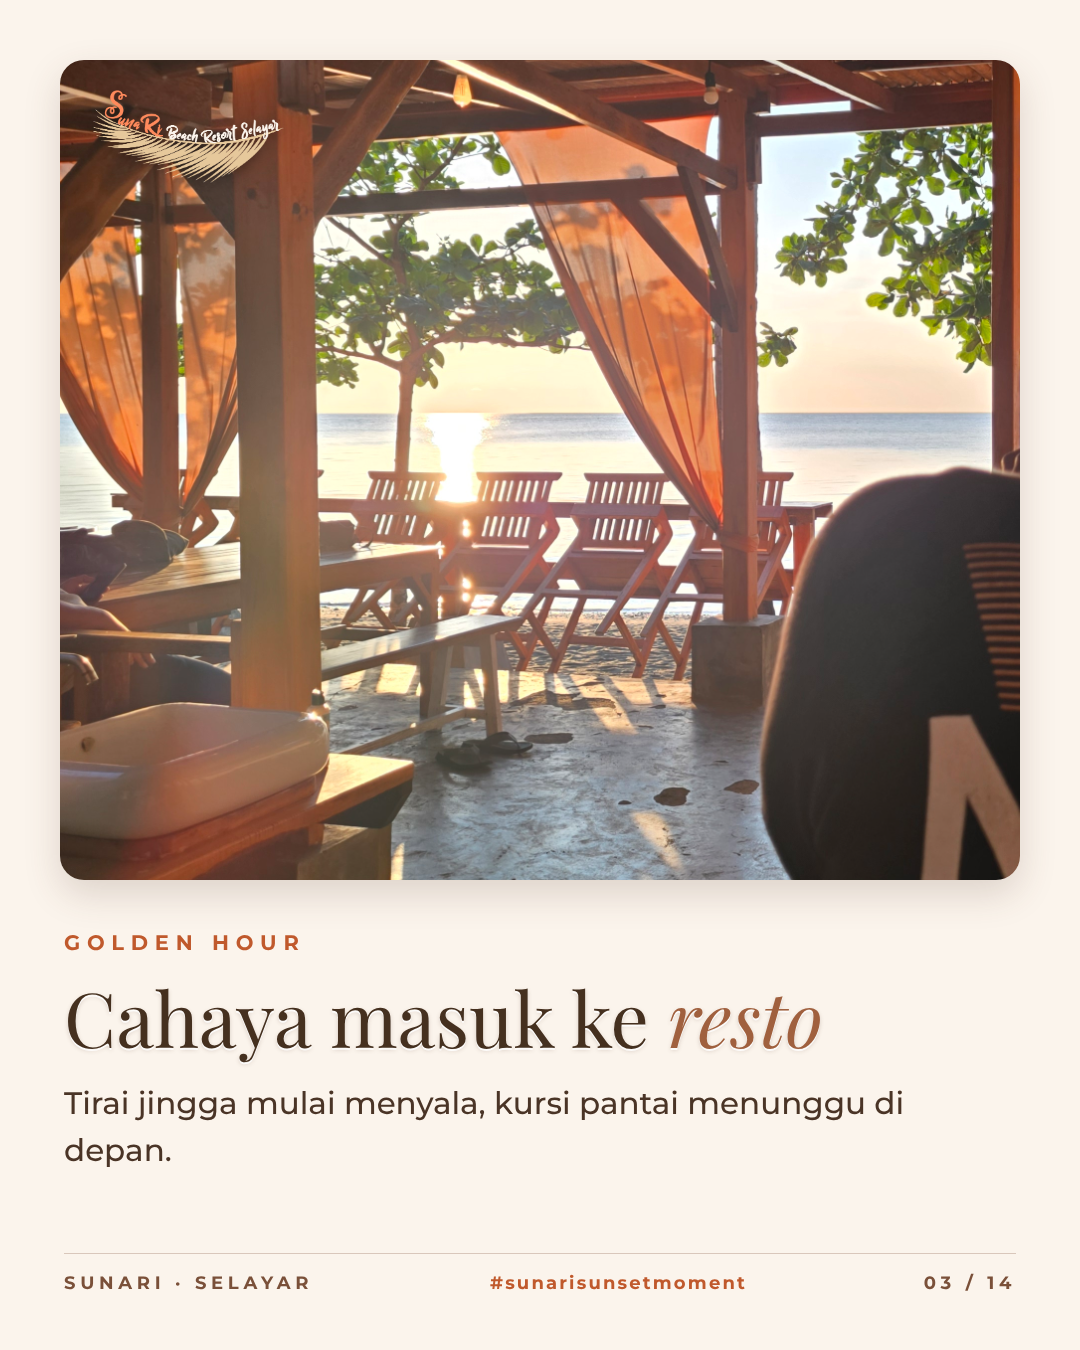
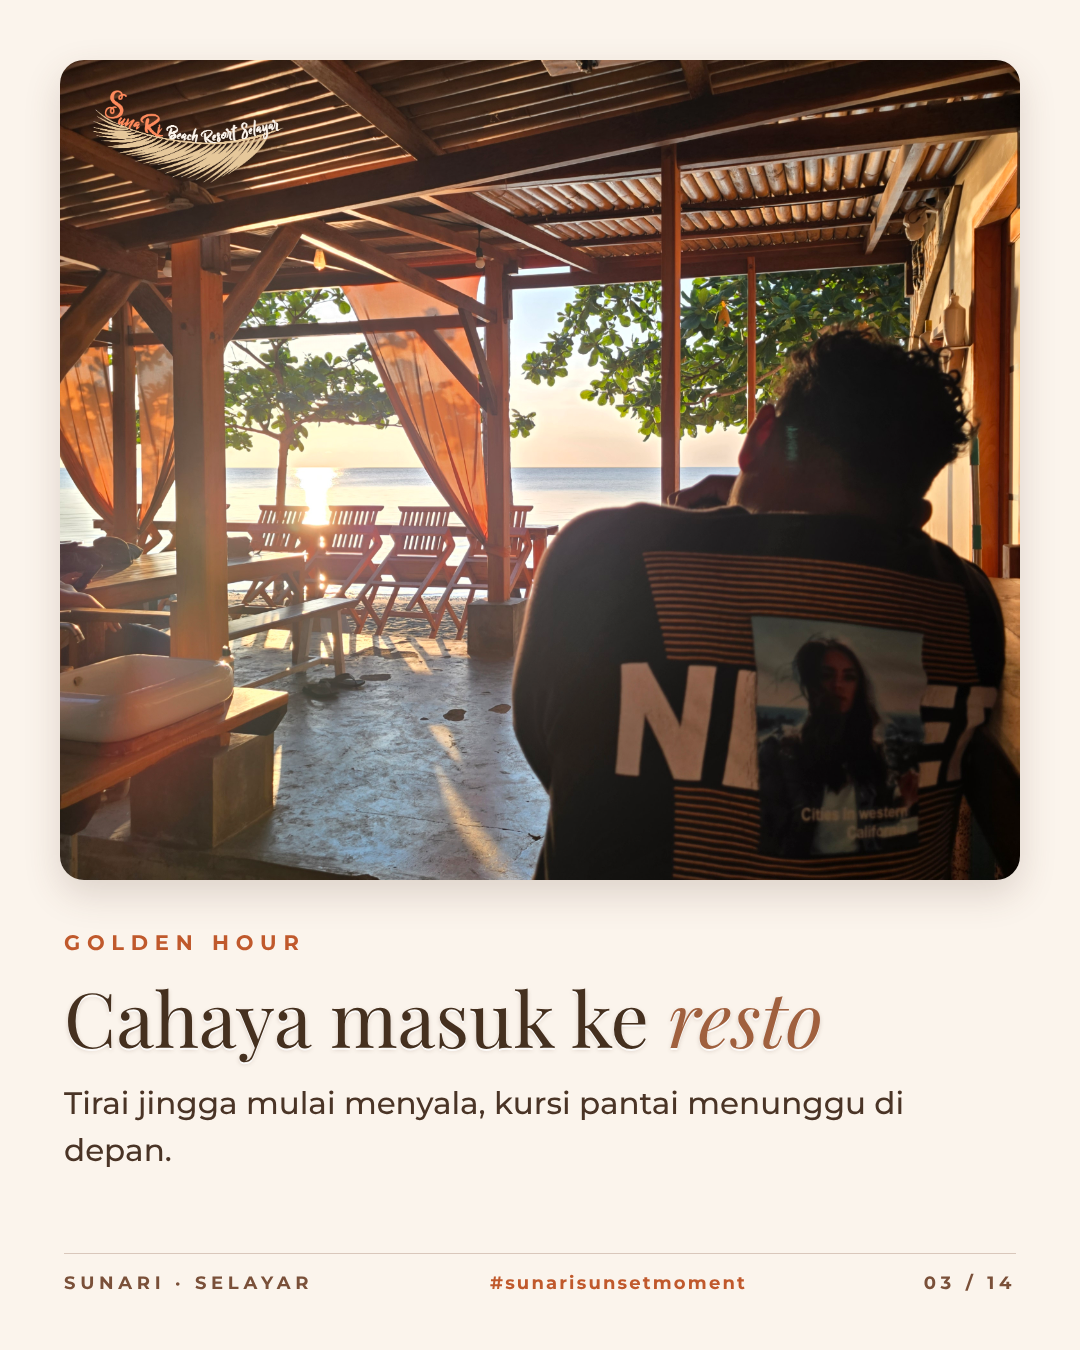
Senja cerita slide 03: show full photo (no zoom)
Claude-Session: https://claude.ai/code/session_01AizaiBQtsTmWERPRfEgVV4

diff --git a/social/senja_cerita.html b/social/senja_cerita.html
@@ -29,7 +29,7 @@
   <div class="tm"><b>17.57</b><span>WITA</span></div>
   <div class="fg">Geser untuk ceritanya &nbsp;→</div><img class="fl" src="../assets/logo-sunari-color-dark.png" alt=""></div><div class="t" id="senja-02"><div class="ph"><img src="../assets/photos/senja/79-meja-kayak-golden-hour.jpg" style="object-position:50% 60%" alt=""><img class="lg" src="../assets/logo-sunari-color-dark.png" alt=""></div>
   <div class="kick">Golden hour</div><div class="ttl emb">Meja sudah <em>siap</em></div><div class="sub">Termos kopi di meja, kayak berjajar di pasir, laut masih tenang.</div>
-  <div class="bt"><span>SunaRi · Selayar</span><span class="h">#sunarisunsetmoment</span><span>02 / 14</span></div></div><div class="t" id="senja-03"><div class="ph"><img src="../assets/photos/senja/80-cahaya-masuk-resto.jpg" style="object-position:0% 58%;transform:scale(1.55);transform-origin:0% 58%" alt=""><img class="lg" src="../assets/logo-sunari-color-dark.png" alt=""></div>
+  <div class="bt"><span>SunaRi · Selayar</span><span class="h">#sunarisunsetmoment</span><span>02 / 14</span></div></div><div class="t" id="senja-03"><div class="ph"><img src="../assets/photos/senja/80-cahaya-masuk-resto.jpg" style="object-position:50% 50%" alt=""><img class="lg" src="../assets/logo-sunari-color-dark.png" alt=""></div>
   <div class="kick">Golden hour</div><div class="ttl emb">Cahaya masuk ke <em>resto</em></div><div class="sub">Tirai jingga mulai menyala, kursi pantai menunggu di depan.</div>
   <div class="bt"><span>SunaRi · Selayar</span><span class="h">#sunarisunsetmoment</span><span>03 / 14</span></div></div><div class="t" id="senja-04"><div class="ph"><img src="../assets/photos/senja/81-resto-tirai-senja.jpg" style="object-position:50% 55%" alt=""><img class="lg" src="../assets/logo-sunari-color-dark.png" alt=""></div>
   <div class="kick">Menjelang senja</div><div class="ttl emb">Kursi mulai <em>terisi</em></div><div class="sub">Satu per satu tamu datang, minuman dingin, obrolan pelan.</div>

diff --git a/social/build_senja_cerita.py b/social/build_senja_cerita.py
@@ -32,7 +32,7 @@ CSS = """
 """
 # (foto, posisi, tahap, judul, keterangan) — urut jalannya sore
 SL = [("79-meja-kayak-golden-hour.jpg", "50% 60%", "Golden hour", 'Meja sudah <em>siap</em>', "Termos kopi di meja, kayak berjajar di pasir, laut masih tenang."),
-      ("80-cahaya-masuk-resto.jpg", "0% 58%;transform:scale(1.55);transform-origin:0% 58%", "Golden hour", 'Cahaya masuk ke <em>resto</em>', "Tirai jingga mulai menyala, kursi pantai menunggu di depan."),
+      ("80-cahaya-masuk-resto.jpg", "50% 50%", "Golden hour", 'Cahaya masuk ke <em>resto</em>', "Tirai jingga mulai menyala, kursi pantai menunggu di depan."),
       ("81-resto-tirai-senja.jpg", "50% 55%", "Menjelang senja", 'Kursi mulai <em>terisi</em>', "Satu per satu tamu datang, minuman dingin, obrolan pelan."),
       ("82-dua-tamu-meja-senja.jpg", "50% 50%", "Menjelang senja", 'Cerita di meja <em>kayu</em>', "Di bawah pohon ketapang, matahari tepat di depan mata."),
       ("71-siluet-tirai-matahari.jpg", "45% 50%", "Menjelang senja", 'Duduk di balik <em>tirai</em>', "Minuman di tangan, jalur cahaya jatuh di depan meja."),
